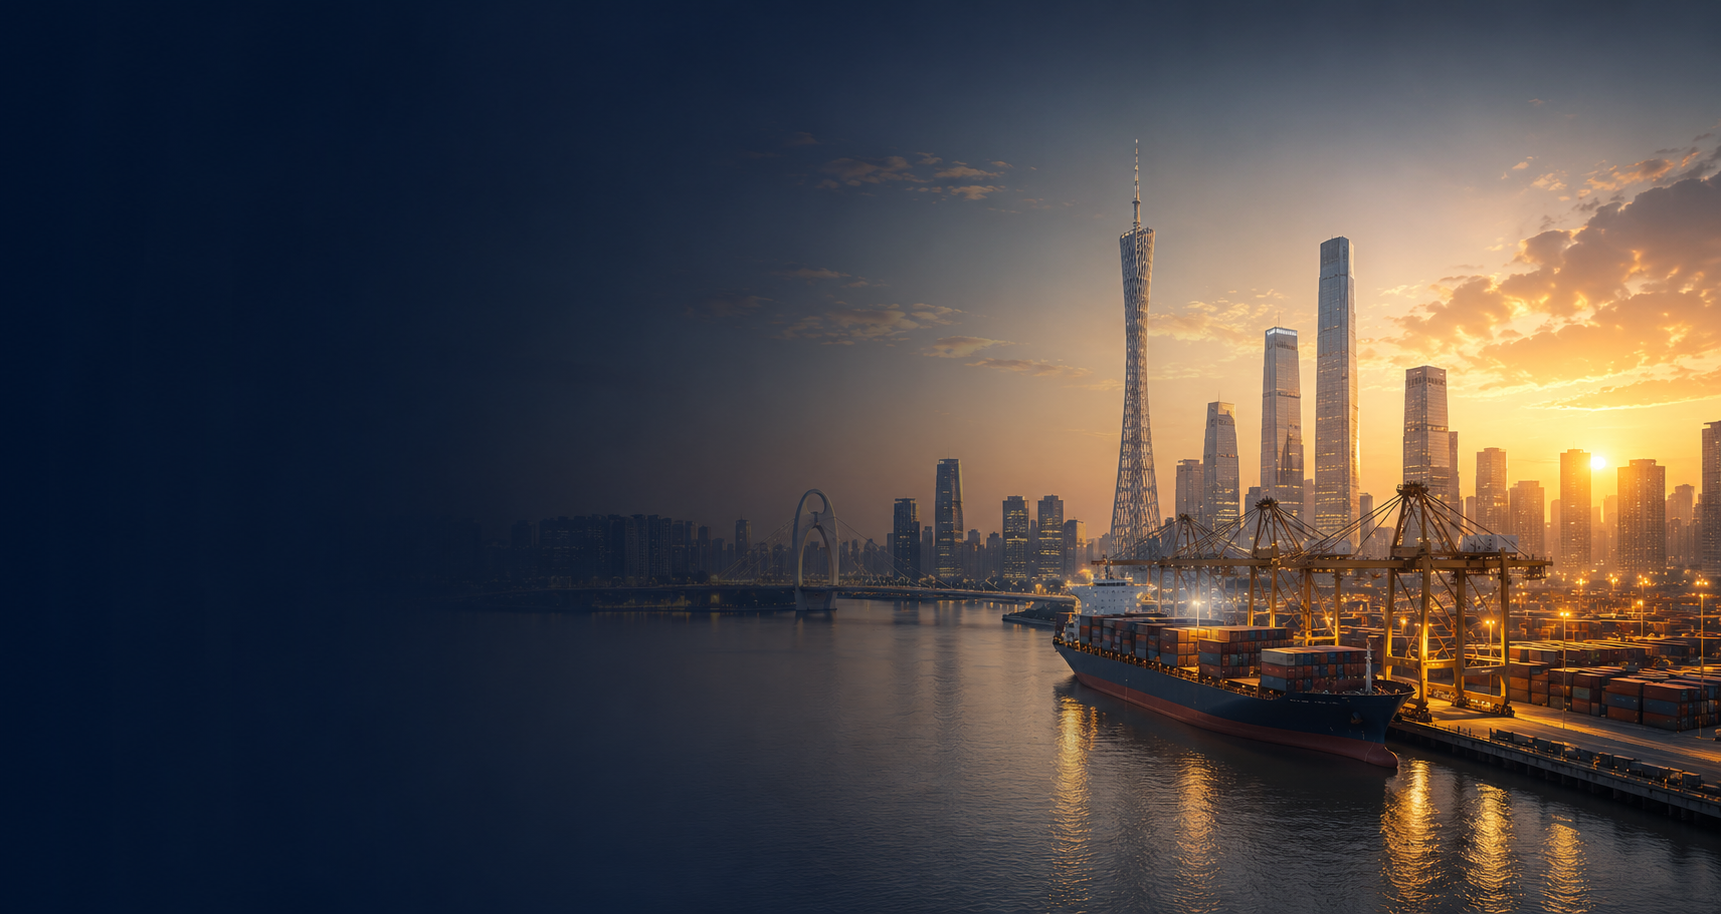
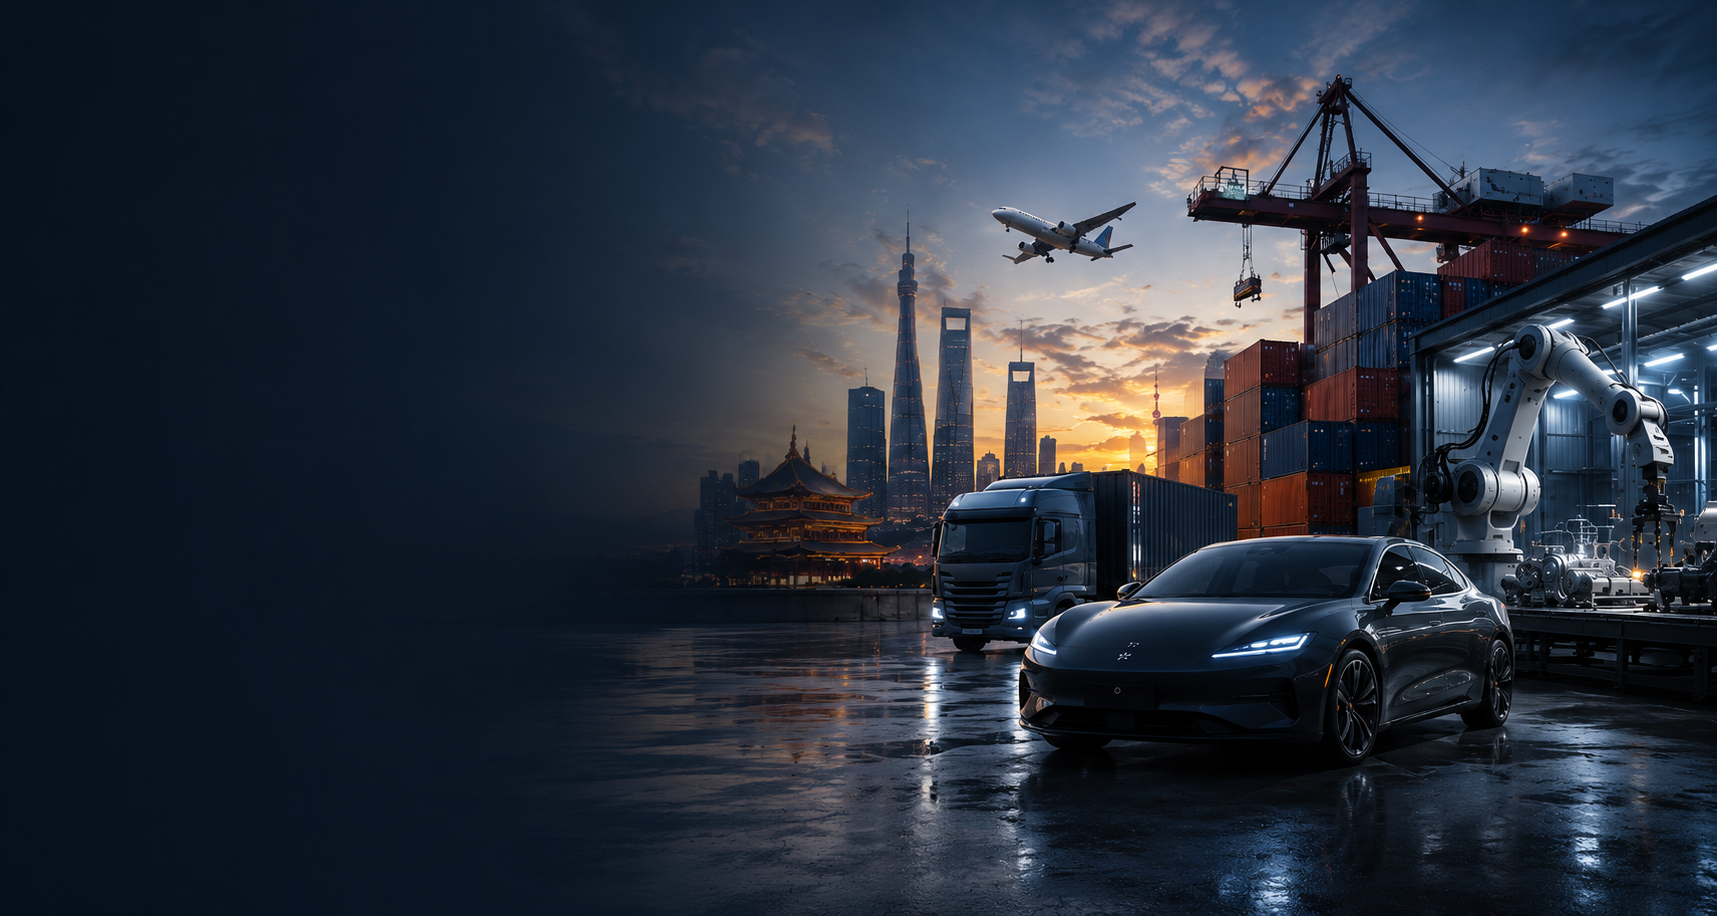
Update projects section

diff --git a/src/components/home/HomeSections.tsx b/src/components/home/HomeSections.tsx
@@ -2,6 +2,7 @@
 
 import {
   ArrowRight,
+  ArrowUp,
   BadgeCheck,
   Building2,
   CarFront,
@@ -11,6 +12,7 @@ import {
 import gsap from "gsap";
 import { ScrollTrigger } from "gsap/ScrollTrigger";
 import Image from "next/image";
+import Link from "next/link";
 import {
   useCallback,
   useEffect,
@@ -162,8 +164,41 @@ const detailedSolutions = [
   },
 ] as const;
 
+const projectCards = [
+  {
+    number: "01",
+    title: "Industrial Equipment Supply",
+    route: "Guangzhou, China -> Saudi Arabia",
+    category: "Industrial Solutions",
+    image: "/images/home-full-f2f6fcf3.png",
+    imagePosition: "63% 52%",
+    href: "/capabilities",
+  },
+  {
+    number: "02",
+    title: "Complete Production Line Delivery",
+    route: "Guangzhou, China -> United Arab Emirates",
+    category: "Turnkey Solutions",
+    image: "/images/contact.png",
+    imagePosition: "66% 48%",
+    href: "/products",
+  },
+  {
+    number: "03",
+    title: "Factory Installation & Commissioning",
+    route: "Guangzhou, China -> Egypt",
+    category: "Project Management",
+    image: "/images/about-vision-a698b154.png",
+    imagePosition: "58% 50%",
+    href: "/contact",
+  },
+] as const;
+
 const clamp = (value: number, min: number, max: number) =>
   Math.min(max, Math.max(min, value));
+
+const getDesktopCardScrollDistance = () =>
+  Math.max(window.innerHeight * 1.05, 820);
 
 function updateScrollFocusRows(
   rows: NodeListOf<HTMLElement>,
@@ -405,6 +440,128 @@ function DetailedSolutionCard({
         </div>
       </div>
     </article>
+  );
+}
+
+function ProjectShowcaseCard({
+  project,
+}: {
+  project: (typeof projectCards)[number];
+}) {
+  return (
+    <article className="group relative min-h-[15.5rem] overflow-hidden rounded-[0.45rem] border border-white/12 bg-[color:var(--color-navy-950)] shadow-[0_18px_46px_rgba(3,20,39,0.14)] sm:min-h-[13.5rem] lg:min-h-[clamp(22rem,46vh,28rem)]">
+      <Image
+        src={assetPath(project.image)}
+        alt={`${project.title} project`}
+        fill
+        sizes="(min-width: 1024px) 28rem, 100vw"
+        className="object-cover transition duration-700 ease-out group-hover:scale-[1.035]"
+        style={{ objectPosition: project.imagePosition }}
+      />
+      <div className="absolute inset-0 bg-[linear-gradient(90deg,rgba(3,20,39,0.95)_0%,rgba(3,20,39,0.86)_28%,rgba(3,20,39,0.47)_54%,rgba(3,20,39,0.1)_100%)] lg:bg-[linear-gradient(180deg,rgba(3,20,39,0.34)_0%,rgba(3,20,39,0.78)_48%,rgba(3,20,39,0.96)_100%)]" />
+      <div className="absolute inset-0 bg-[linear-gradient(180deg,rgba(3,20,39,0.08)_0%,rgba(3,20,39,0.2)_100%)] lg:bg-[linear-gradient(90deg,rgba(3,20,39,0.48)_0%,rgba(3,20,39,0.12)_100%)]" />
+
+      <div className="relative z-10 flex min-h-[15.5rem] flex-col justify-between px-5 py-5 sm:min-h-[13.5rem] sm:px-7 sm:py-6 lg:min-h-[clamp(22rem,46vh,28rem)] lg:px-6 lg:py-6 xl:px-7">
+        <div className="flex items-center gap-4">
+          <span className="font-serif text-[2rem] leading-none tracking-[-0.05em] text-[color:var(--color-gold-500)] sm:text-[2.35rem] lg:text-[2rem]">
+            {project.number}
+          </span>
+          <span className="h-px w-12 bg-[color:var(--color-gold-500)]/62" />
+        </div>
+
+        <div className="max-w-[28rem] lg:mt-auto lg:pt-16">
+          <h3 className="text-[1.05rem] font-semibold uppercase leading-[1.08] tracking-[-0.02em] text-white sm:text-[1.18rem] lg:text-[1.02rem]">
+            {project.title}
+          </h3>
+          <p className="mt-2 text-[0.86rem] font-medium leading-6 text-white/78 lg:text-[0.82rem] lg:leading-5">
+            {project.route}
+          </p>
+        </div>
+
+        <div className="flex flex-col gap-4 sm:flex-row sm:items-end sm:justify-between lg:mt-6 lg:flex-col lg:items-start">
+          <div className="flex items-center gap-2.5 text-[0.66rem] font-semibold uppercase tracking-[0.14em] text-[color:var(--color-gold-500)]">
+            <BadgeCheck className="h-4 w-4" strokeWidth={1.7} />
+            <span>{project.category}</span>
+          </div>
+
+          <Link
+            href={project.href}
+            className="inline-flex min-h-10 w-fit items-center justify-center gap-2 border border-[color:var(--color-gold-500)] bg-[color:var(--color-gold-500)] px-4 py-2 text-[0.66rem] font-semibold uppercase tracking-[0.16em] text-[color:var(--color-navy-950)] shadow-[0_10px_26px_rgba(197,160,98,0.22)] transition duration-300 hover:border-white hover:bg-white hover:text-[color:var(--color-navy-950)] focus-visible:outline-none focus-visible:ring-2 focus-visible:ring-[color:var(--color-gold-500)] focus-visible:ring-offset-2 focus-visible:ring-offset-[color:var(--color-navy-950)] lg:min-h-9 lg:px-4"
+          >
+            Read More
+            <ArrowRight className="h-3.5 w-3.5 transition duration-300 group-hover:translate-x-0.5" />
+          </Link>
+        </div>
+      </div>
+    </article>
+  );
+}
+
+function BackToTopButton() {
+  const [isVisible, setIsVisible] = useState(false);
+  const [scrollProgress, setScrollProgress] = useState(0);
+
+  useEffect(() => {
+    const updateScrollState = () => {
+      const scrollTop = window.scrollY;
+      const scrollableHeight =
+        document.documentElement.scrollHeight - window.innerHeight;
+
+      setIsVisible(scrollTop > window.innerHeight * 0.7);
+      setScrollProgress(
+        scrollableHeight > 0 ? clamp(scrollTop / scrollableHeight, 0, 1) : 0
+      );
+    };
+
+    updateScrollState();
+    window.addEventListener("scroll", updateScrollState, { passive: true });
+    window.addEventListener("resize", updateScrollState);
+
+    return () => {
+      window.removeEventListener("scroll", updateScrollState);
+      window.removeEventListener("resize", updateScrollState);
+    };
+  }, []);
+
+  const handleBackToTop = () => {
+    const prefersReducedMotion = window.matchMedia(
+      "(prefers-reduced-motion: reduce)"
+    ).matches;
+
+    window.scrollTo({
+      top: 0,
+      behavior: prefersReducedMotion ? "auto" : "smooth",
+    });
+  };
+
+  return (
+    <button
+      type="button"
+      aria-label="Back to top"
+      title="Back to top"
+      tabIndex={isVisible ? 0 : -1}
+      className={cn(
+        "group fixed bottom-5 right-5 z-[80] flex h-12 w-12 items-center justify-center rounded-full p-px shadow-[0_18px_46px_rgba(3,20,39,0.22)] transition duration-300 ease-out sm:bottom-7 sm:right-7 sm:h-14 sm:w-14",
+        isVisible
+          ? "translate-y-0 opacity-100"
+          : "pointer-events-none translate-y-4 opacity-0"
+      )}
+      style={
+        {
+          background: `conic-gradient(var(--color-gold-500) ${
+            scrollProgress * 360
+          }deg, rgba(197,160,98,0.18) 0deg)`,
+        } as CSSProperties
+      }
+      onClick={handleBackToTop}
+    >
+      <span className="flex h-full w-full items-center justify-center rounded-full border border-white/10 bg-[rgba(3,20,39,0.88)] text-[color:var(--color-gold-500)] backdrop-blur-xl transition duration-300 group-hover:bg-[color:var(--color-gold-500)] group-hover:text-[color:var(--color-navy-950)] group-focus-visible:outline group-focus-visible:outline-2 group-focus-visible:outline-offset-4 group-focus-visible:outline-[color:var(--color-gold-500)]">
+        <ArrowUp
+          className="h-4.5 w-4.5 transition duration-300 group-hover:-translate-y-0.5 sm:h-5 sm:w-5"
+          strokeWidth={1.8}
+        />
+      </span>
+    </button>
   );
 }
 
@@ -961,11 +1118,18 @@ export function HomeSections() {
         trigger: section,
         start: "top top",
         end: () =>
-          `+=${Math.max(window.innerHeight * 0.6, 450) * detailedSolutions.length}`,
+          `+=${getDesktopCardScrollDistance() * detailedSolutions.length}`,
         pin: true,
         pinSpacing: true,
         anticipatePin: 1,
         invalidateOnRefresh: true,
+        fastScrollEnd: false,
+        snap: {
+          snapTo: 1 / detailedSolutions.length,
+          duration: { min: 0.18, max: 0.32 },
+          delay: 0.04,
+          ease: "power2.out",
+        },
         onEnter: () => setDetailedDesktopIndex(0),
         onEnterBack: () =>
           setDetailedDesktopIndex(detailedSolutions.length - 1),
@@ -1020,7 +1184,7 @@ export function HomeSections() {
     <div ref={rootRef}>
       <section
         id="about"
-        className="js-about-section relative overflow-hidden bg-[linear-gradient(180deg,#f6f2ed_0%,#f8f5f0_100%)] py-[clamp(2.1rem,7vw,3.2rem)] lg:py-[calc(var(--section-space)*0.92)]"
+        className="js-about-section relative overflow-hidden bg-[linear-gradient(180deg,#f6f2ed_0%,#f8f5f0_100%)] py-[clamp(2.1rem,7vw,3.2rem)] lg:flex lg:min-h-screen lg:items-center lg:py-[clamp(2rem,5vh,3.2rem)]"
       >
         <Container className="w-full max-w-[var(--content-max)] px-[var(--mobile-gutter)] sm:px-6 lg:block lg:px-8">
           <div className="grid w-full gap-[clamp(1.6rem,5vw,2.5rem)] lg:grid-cols-2 lg:items-stretch lg:gap-12 xl:gap-16">
@@ -1182,7 +1346,7 @@ export function HomeSections() {
                             "origin-left font-serif text-[2.65rem] leading-none tracking-[-0.07em] transition-[color,transform] duration-700 ease-[cubic-bezier(0.22,1,0.36,1)]",
                             isActive
                               ? "scale-100 text-[color:var(--color-gold-500)]"
-                              : "scale-90 text-[color:var(--color-navy-900)]/35"
+                              : "scale-90 text-[color:var(--color-gold-500)]"
                           )}
                         >
                           {objective.number}
@@ -1449,6 +1613,53 @@ export function HomeSections() {
       </section>
 
       <section
+        id="projects"
+        className="relative overflow-hidden bg-[#f8f4ef] py-[clamp(3.25rem,6vw,5rem)] lg:flex lg:min-h-screen lg:items-center lg:py-[clamp(2rem,4vh,3rem)]"
+      >
+        <Container className="relative z-10 max-w-[var(--content-max)]">
+          <div className="mb-8 flex flex-col gap-6 sm:mb-10 lg:mb-[clamp(1.2rem,2.8vh,2rem)] lg:flex-row lg:items-start lg:justify-between">
+            <div className="max-w-[37rem]">
+              <p className="section-label mb-4 lg:mb-3">OUR PROJECTS</p>
+              <TextReveal forceMotion distance={44}>
+                <h2 className="font-serif text-[clamp(2.4rem,5.2vw,4.5rem)] uppercase leading-[0.88] tracking-[-0.055em] text-[color:var(--color-navy-900)] lg:text-[clamp(3.1rem,5.4vw,4rem)]">
+                  Trade In Motion.
+                </h2>
+              </TextReveal>
+              <Reveal forceMotion delay={0.12} distance={18}>
+                <p className="mt-5 max-w-[33rem] text-[0.96rem] leading-7 text-[color:var(--color-slate-700)] lg:mt-4 lg:max-w-[31rem] lg:text-[0.92rem] lg:leading-6">
+                  A selection of projects, partnerships, shipments, and sourcing
+                  operations delivered across industries and markets.
+                </p>
+              </Reveal>
+            </div>
+
+            <Reveal forceMotion delay={0.16} distance={18}>
+              <Link
+                href="/capabilities"
+                className="group inline-flex min-h-12 w-fit items-center justify-center gap-3 border border-[color:var(--color-gold-500)]/54 bg-white/28 px-5 py-3 text-[0.68rem] font-semibold uppercase tracking-[0.16em] text-[color:var(--color-gold-600)] backdrop-blur-sm transition duration-300 hover:border-[color:var(--color-gold-500)] hover:bg-[color:var(--color-gold-500)] hover:text-[color:var(--color-navy-950)] focus-visible:outline-none focus-visible:ring-2 focus-visible:ring-[color:var(--color-gold-500)] focus-visible:ring-offset-2"
+              >
+                View All Projects
+                <ArrowRight className="h-4 w-4 transition duration-300 group-hover:translate-x-1" />
+              </Link>
+            </Reveal>
+          </div>
+
+          <div className="grid gap-3 sm:gap-3.5 lg:grid-cols-3 lg:gap-4">
+            {projectCards.map((project, index) => (
+              <Reveal
+                forceMotion
+                key={project.number}
+                delay={index * 0.08}
+                distance={26}
+              >
+                <ProjectShowcaseCard project={project} />
+              </Reveal>
+            ))}
+          </div>
+        </Container>
+      </section>
+
+      <section
         id="global-reach"
         className="js-global-section relative overflow-hidden text-white"
       >
@@ -1491,8 +1702,11 @@ export function HomeSections() {
         </div>
       </section>
 
-      <section id="why-rong-xing" className="bg-[color:var(--color-surface)] py-[var(--section-space)]">
-        <Container className="max-w-[var(--content-max)]">
+      <section
+        id="why-rong-xing"
+        className="bg-[color:var(--color-surface)] py-[var(--section-space)] lg:flex lg:min-h-screen lg:items-center lg:py-[clamp(2rem,5vh,3.2rem)]"
+      >
+        <Container className="w-full max-w-[var(--content-max)]">
           <div className="relative grid gap-14 lg:grid-cols-[minmax(0,0.44fr)_minmax(0,0.56fr)] lg:items-stretch lg:gap-16">
             <div className="relative flex h-full max-w-[31rem] flex-col">
               <p className="section-label relative z-10 mb-5">WHY RONG XING</p>
@@ -1528,7 +1742,7 @@ export function HomeSections() {
                 {whyItems.map((item, index) => (
                   <Reveal forceMotion key={item.title} delay={index * 0.07} distance={24}>
                     <article className="group grid grid-cols-[auto_minmax(0,1fr)_auto] items-start gap-5 py-5 transition-[padding,color] duration-300 hover:py-6">
-                    <div className="pt-0.5 text-[1.55rem] font-semibold leading-none tracking-[-0.04em] text-[color:var(--color-navy-900)]/34 transition-all duration-300 group-hover:scale-[1.06] group-hover:text-[color:var(--color-gold-500)]">
+                    <div className="pt-0.5 text-[1.55rem] font-semibold leading-none tracking-[-0.04em] text-[color:var(--color-gold-500)] transition-all duration-300 group-hover:scale-[1.06]">
                       {String(index + 1).padStart(2, "0")}
                     </div>
 
@@ -1664,6 +1878,7 @@ export function HomeSections() {
           </div>
         </Container>
       </section>
+      <BackToTopButton />
     </div>
   );
 }

diff --git a/src/components/motion/Reveal.tsx b/src/components/motion/Reveal.tsx
@@ -79,7 +79,9 @@ function useRevealTrigger(forceMotion = false) {
     }
 
     const revealIfPassed = () => {
-      if (element.getBoundingClientRect().bottom <= 0) {
+      const rect = element.getBoundingClientRect();
+
+      if (rect.bottom <= 0 || rect.top < window.innerHeight) {
         setHasPassedViewport(true);
       }
     };
@@ -100,6 +102,26 @@ function useRevealTrigger(forceMotion = false) {
 
     void controls.start("hidden");
   }, [controls, hasPassedViewport, inView, shouldReduceMotion]);
+
+  useEffect(() => {
+    const timeoutId = window.setTimeout(() => {
+      const element = ref.current;
+
+      if (!element) {
+        return;
+      }
+
+      const rect = element.getBoundingClientRect();
+
+      if (rect.bottom <= 0 || rect.top < window.innerHeight * 1.1) {
+        void controls.start("visible");
+      }
+    }, 900);
+
+    return () => {
+      window.clearTimeout(timeoutId);
+    };
+  }, [controls]);
 
   return {
     ref,

diff --git a/src/data/navigation.ts b/src/data/navigation.ts
@@ -4,6 +4,7 @@ export const navigationItems: NavigationItem[] = [
   { href: "/#top", label: "HOME" },
   { href: "/#about", label: "ABOUT US" },
   { href: "/#solutions", label: "SOLUTIONS" },
+  { href: "/#projects", label: "PROJECTS" },
   { href: "/#global-reach", label: "GLOBAL REACH" },
   { href: "/#why-rong-xing", label: "WHY RONG XING" },
   { href: "/#contact", label: "CONTACT" },
